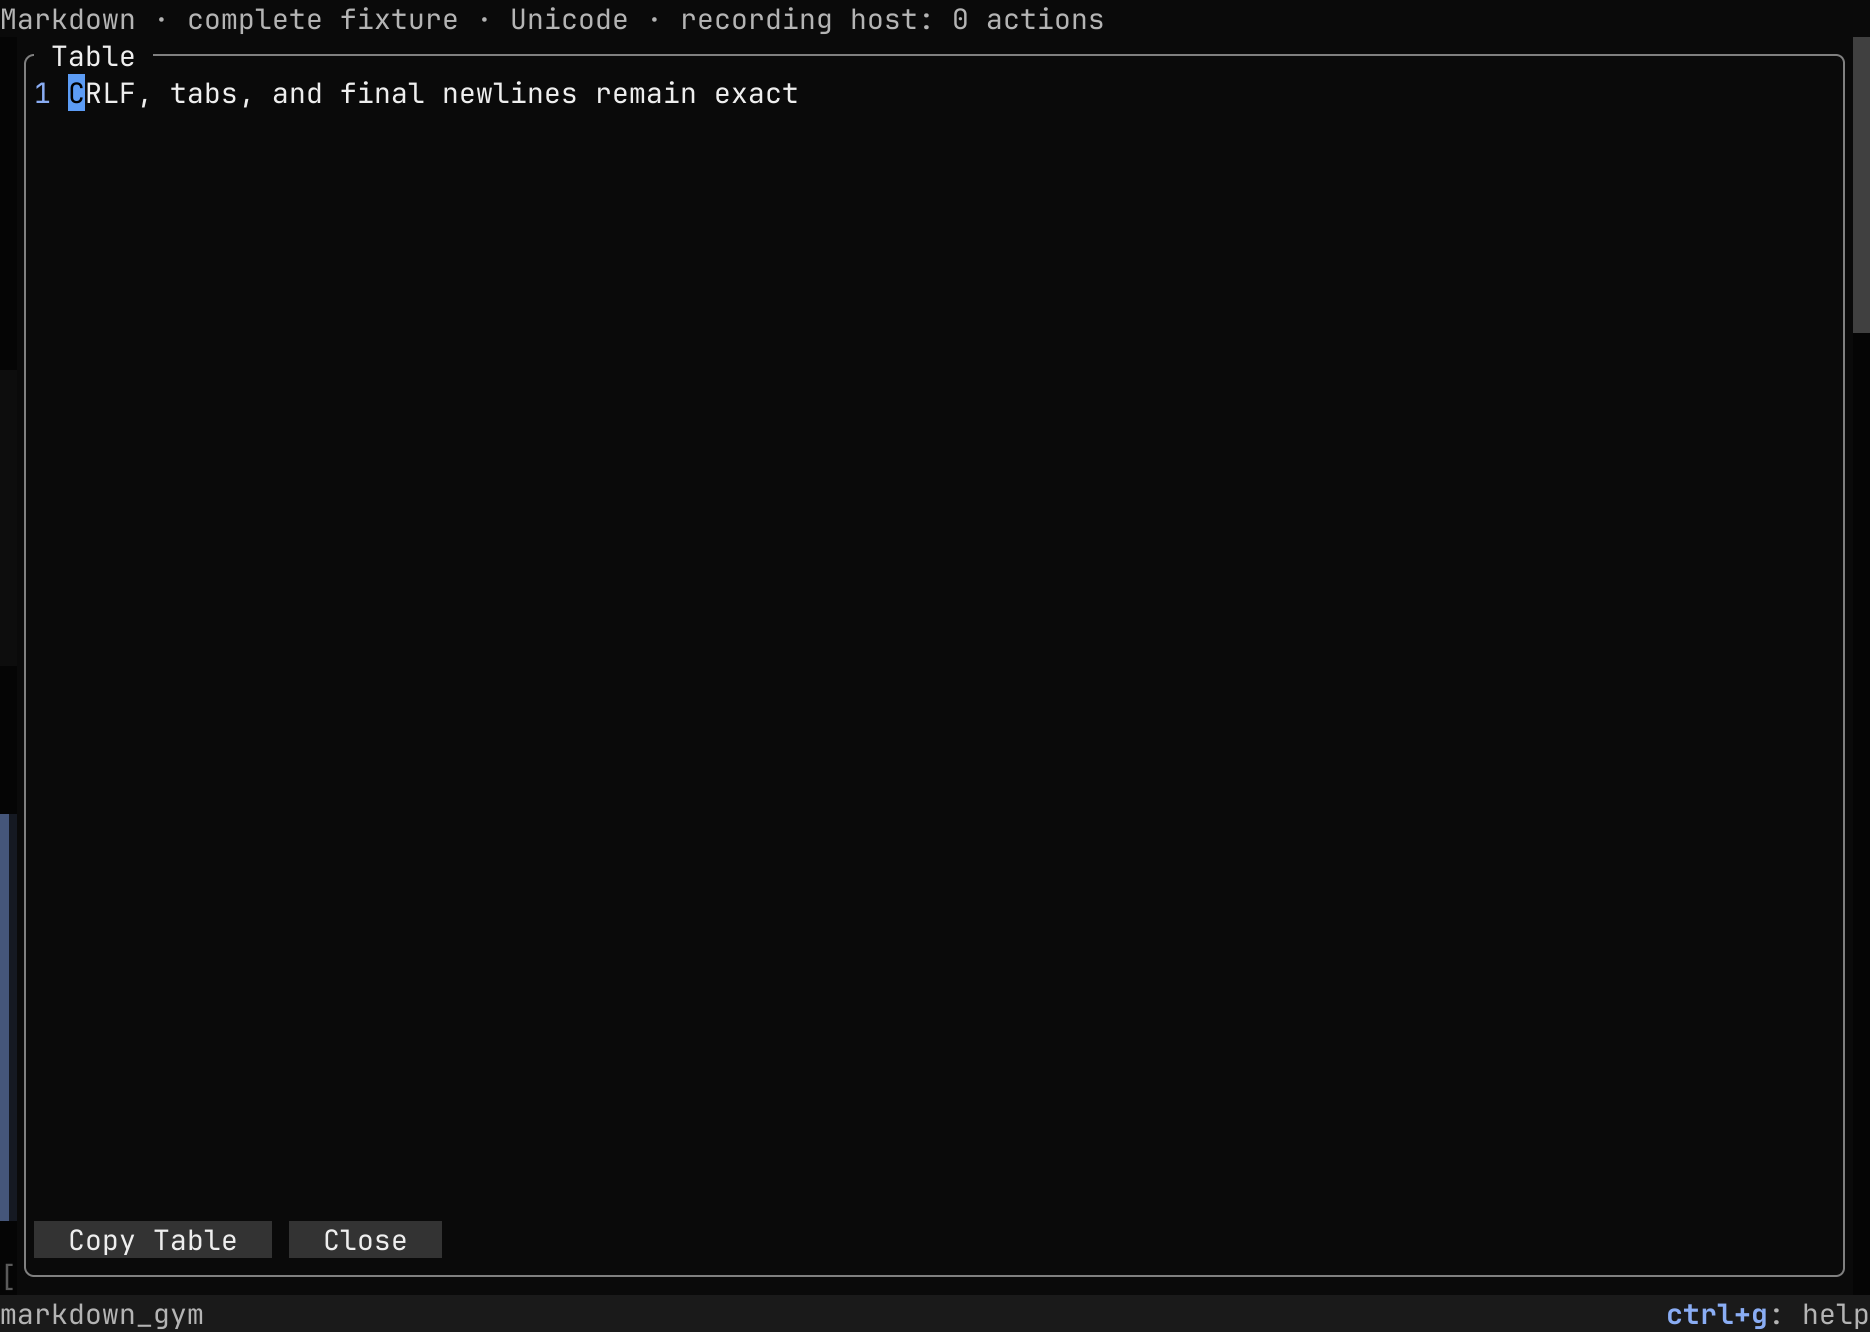
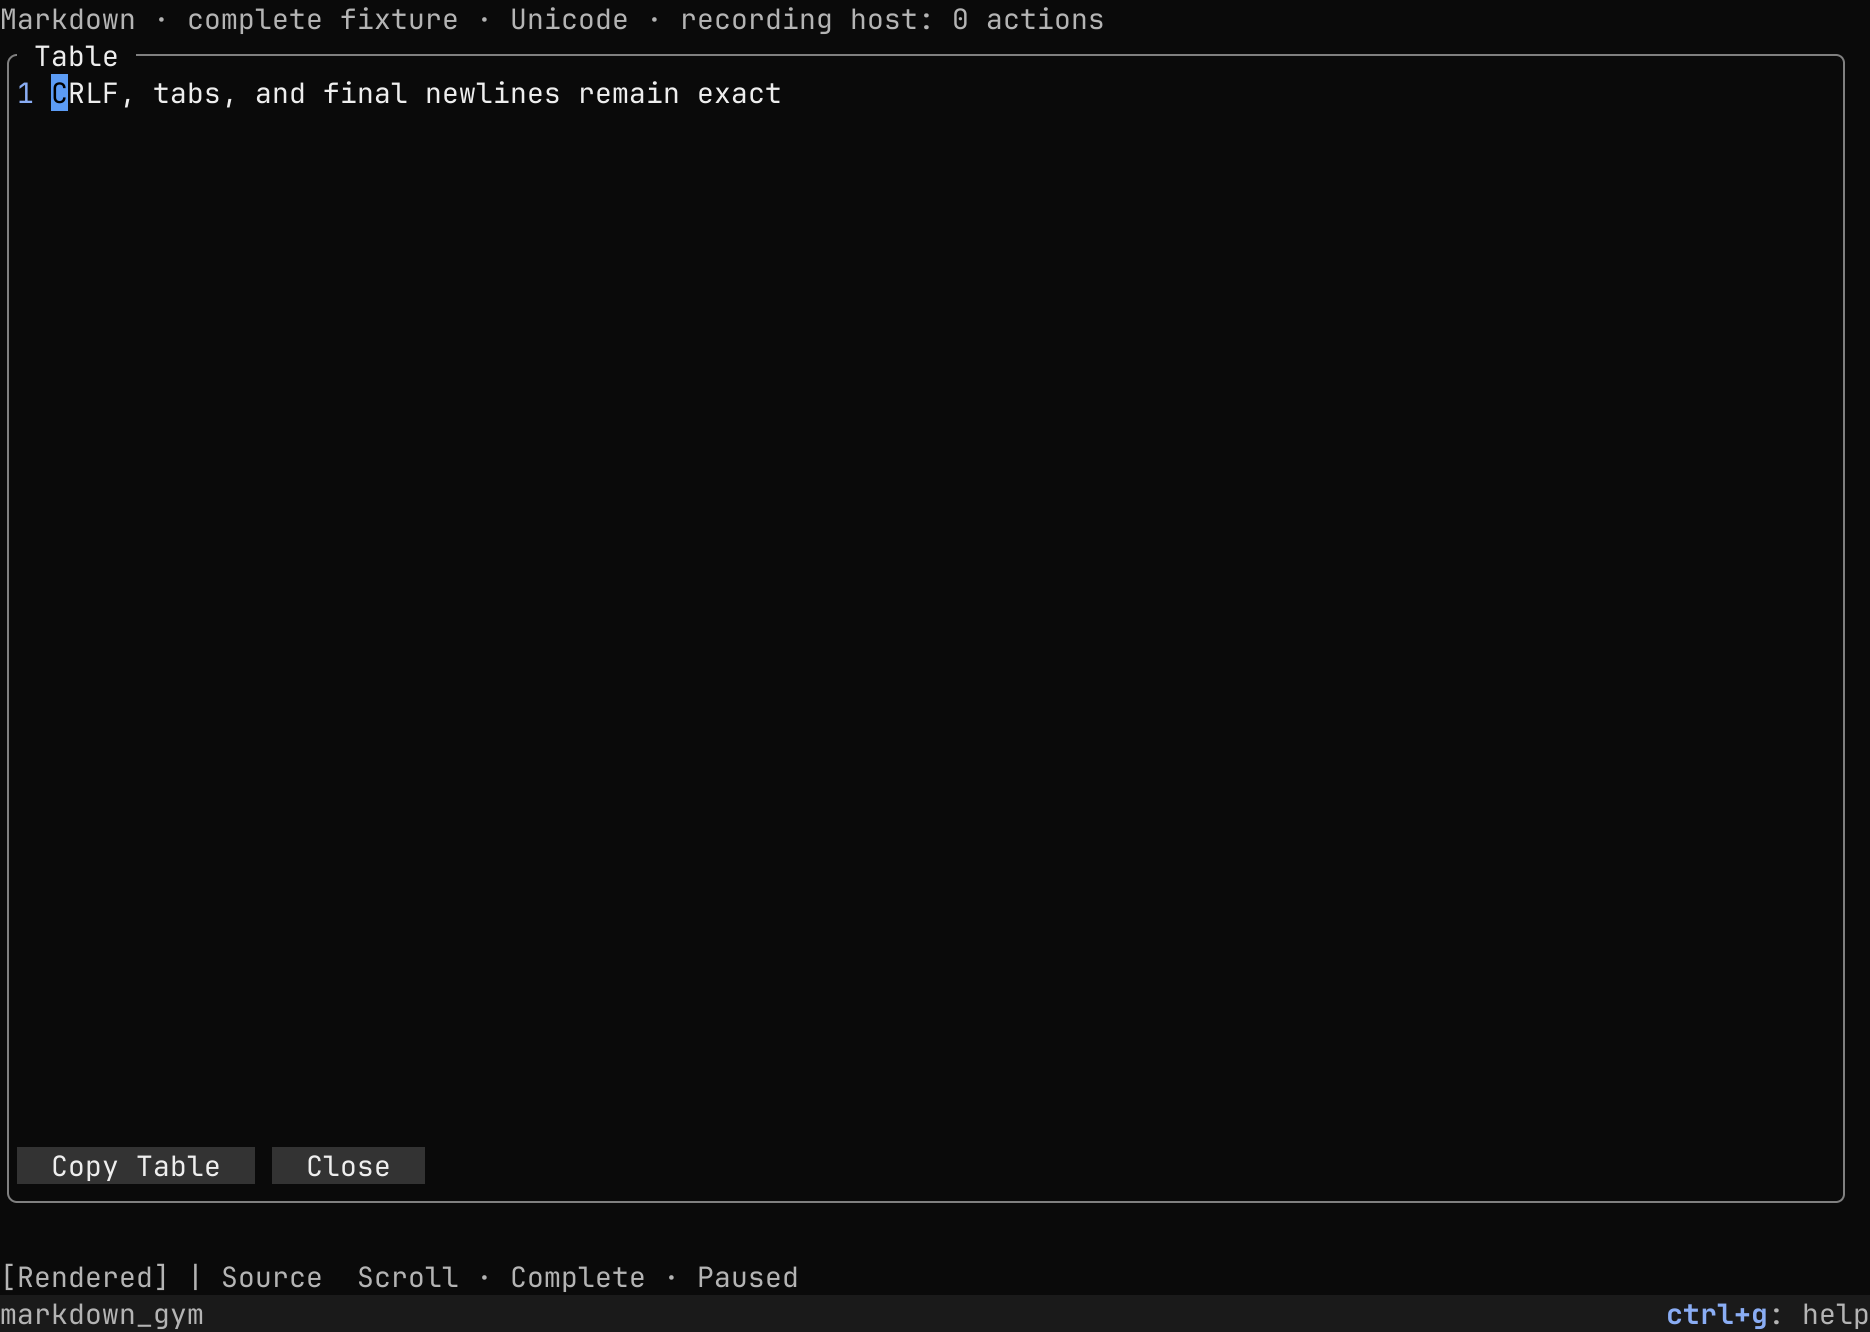
Open Markdown inspectors over the reader, not the whole host
An inspector mounted in the root's overlay layer and filled it, so
opening a table, a code block, a link, or the source took over the whole
application, however small the reader's pane. It now mounts in the
reader's body and opens as a modal inside the reader, so it covers the
reader alone and still takes focus and the keys. The body's layout
override names its stack again, which it had lost, and the document's
scrollbars hide while an inspector covers it.

diff --git a/docs/gallery/index.html b/docs/gallery/index.html
@@ -346,7 +346,7 @@
 <script>
 const GALLERY = {
   "title": "Canopy widgets",
-  "generated": 1792118023,
+  "generated": 1792274863,
   "font_size": 14.0,
   "scale": 2.0,
   "sizes": [

diff --git a/crates/canopy-markdown/src/inspector.rs b/crates/canopy-markdown/src/inspector.rs
@@ -17,7 +17,7 @@ use canopy::{
         InputSpec, ModalBindings, ModalOptions, ModalToken,
         key::{Key, KeyCode},
     },
-    layout::{CanvasContext, Direction, Edges, Layout, RevealAlign},
+    layout::{CanvasContext, Direction, Layout, RevealAlign},
     render::Render,
     runtime::{NodeWakeHandle, PollLifetime, WakeOutcome},
     tree::{FocusDirection, FocusScope},
@@ -458,12 +458,26 @@ impl MarkdownInspector {
         executor: MarkdownExecutor,
         content: InspectorContent,
     ) -> Result<InspectorHandle> {
-        Self::open_configured(ctx, executor, content, true, DEFAULT_COPY_BYTES, 256 * 1024)
+        let parent = ctx.node_id();
+        Self::open_configured(
+            ctx,
+            parent,
+            executor,
+            content,
+            true,
+            DEFAULT_COPY_BYTES,
+            256 * 1024,
+        )
     }
     /// Mount and open a modal with its host capabilities and preparation
     /// bounds.
+    ///
+    /// The inspector mounts in `parent`, a stack inside the calling owner,
+    /// and fills it, so it covers the reader it inspects and nothing else.
+    /// The modal still takes focus and the keys while it is open.
     pub fn open_configured(
         ctx: &mut dyn Context,
+        parent: NodeId,
         executor: MarkdownExecutor,
         content: InspectorContent,
         allow_copy: bool,
@@ -477,7 +491,7 @@ impl MarkdownInspector {
         inspector.allow_copy = allow_copy;
         inspector.copy_limit = copy_limit.min(EVENT_BYTES);
         inspector.source_options.syntax_limit = syntax_limit;
-        let node = ctx.add_modal(inspector)?;
+        let node = ctx.add_child(parent, inspector)?;
         let view: &dyn ViewContext = ctx;
         let (focus, wake) = view.with_widget(node, |widget: &Self| {
             Ok((
@@ -489,7 +503,8 @@ impl MarkdownInspector {
             owner: owner_id,
             modal: node.into(),
             initial_focus: focus.unwrap_or(node.into()),
-            dim_target: Some(owner_id),
+            // The inspector covers the reader, so nothing beside it dims.
+            dim_target: None,
             bindings: ModalBindings::Framework {
                 groups: &[Self::BINDINGS],
                 intents: &[],
@@ -1049,7 +1064,7 @@ impl Widget for Inspector {
         NodeName::convert("markdown_inspector")
     }
     fn layout(&self) -> Layout {
-        Layout::fill().padding(Edges::all(1))
+        Layout::fill()
     }
     fn accept_focus(&self, _ctx: &dyn ViewContext) -> bool {
         true
@@ -1597,8 +1612,9 @@ mod tests {
         inspector: Option<InspectorHandle>,
     }
     impl Widget for Owner {
+        // The inspector mounts in its owner, over the owner's own drawing.
         fn layout(&self) -> Layout {
-            Layout::fill()
+            Layout::fill().direction(Direction::Stack)
         }
         fn name(&self) -> NodeName {
             NodeName::convert("inspector_owner")
@@ -1663,38 +1679,30 @@ mod tests {
         }
     }
     #[test]
-    fn modal_background_covers_backdrop_between_controls_and_in_empty_reader_rows() -> Result<()> {
-        let (mut harness, _, handle, _) = fixture(outline())?;
+    fn the_inspector_covers_its_owner_between_controls_and_in_empty_reader_rows() -> Result<()> {
+        let (mut harness, owner, handle, _) = fixture(outline())?;
         harness.render()?;
-        let body = harness.canopy.with_root_context(|ctx| {
-            let reader = ctx.with_widget(handle.node, |inspector: &Inspector| {
-                Ok(inspector.reader_parent.unwrap())
-            })?;
-            Ok(ctx.view_of(ctx.parent_of(reader).unwrap()).unwrap().outer)
+        let (owner, inspector) = harness.canopy.with_root_context(|ctx| {
+            Ok((
+                ctx.view_of(owner).unwrap().outer,
+                ctx.view_of(handle.node.into()).unwrap().outer,
+            ))
         })?;
-        let lines = harness.tbuf().lines();
-        assert!(
-            lines[0].starts_with('~'),
-            "the outer margin still shows the backdrop"
+        assert_eq!(
+            inspector, owner,
+            "the inspector fills its owner, and only it"
         );
-        for row in lines
-            .iter()
-            .skip(usize::try_from(body.tl.y).unwrap())
-            .take(body.h as usize)
-        {
+        for row in harness.tbuf().lines() {
             assert!(
-                row.chars()
-                    .skip(usize::try_from(body.tl.x).unwrap())
-                    .take(body.w as usize)
-                    .all(|ch| ch != '~'),
-                "backdrop leaked through the modal: {row}"
+                !row.contains('~'),
+                "the owner's drawing leaked through the inspector: {row}"
             );
         }
         Ok(())
     }
 
     #[test]
-    fn owner_removal_reclaims_root_sibling_without_a_timer() -> Result<()> {
+    fn owner_removal_reclaims_the_inspector_without_a_timer() -> Result<()> {
         let (mut harness, owner, handle, _) = fixture(outline())?;
         harness
             .canopy
@@ -1731,8 +1739,15 @@ mod tests {
         })?;
         handle.wake()?;
         harness.canopy.turn(TurnInput::Prepare)?;
-        assert_eq!(harness.find_nodes("**/markdown_inspector/")?.len(), 1);
+        // The inspector travels with its detached owner, and lives on.
         assert_ne!(handle.wake()?, WakeOutcome::Expired);
+        harness.canopy.with_root_context(|ctx| {
+            let root = ctx.root_id();
+            ctx.attach(root, owner)?;
+            ctx.set_hidden(owner, false)
+        })?;
+        harness.canopy.turn(TurnInput::Prepare)?;
+        assert_eq!(harness.find_nodes("**/markdown_inspector/")?.len(), 1);
         Ok(())
     }
     #[test]
@@ -1839,6 +1854,7 @@ mod tests {
         let handle = harness.canopy.with_context(owner, |ctx| {
             Inspector::open_configured(
                 ctx,
+                owner,
                 executor,
                 InspectorContent::Code {
                     info: String::new(),

diff --git a/crates/canopy-markdown/src/widget/mod.rs b/crates/canopy-markdown/src/widget/mod.rs
@@ -83,7 +83,7 @@ struct Nodes {
 }
 /// Pinned inspector provenance, independent of subsequent publications.
 struct OpenInspector {
-    /// Modal overlay handle used for events, readiness, and dismissal.
+    /// Modal handle used for events, readiness, and dismissal.
     handle: InspectorHandle,
     /// Pinned inspected object, or None for an outline or full source.
     object: Option<u64>,
@@ -1123,8 +1123,14 @@ impl Markdown {
             return Err(invalid("Close the current inspector first"));
         }
         self.shared.borrow_mut().follow = Follow::Paused;
+        let body = self
+            .nodes
+            .as_ref()
+            .map(|nodes| nodes.body)
+            .ok_or_else(|| invalid("The reader is not mounted"))?;
         let handle = Inspector::open_configured(
             ctx,
+            body,
             self.options.executor.clone(),
             content,
             self.options.clipboard,
@@ -1844,6 +1850,10 @@ impl Markdown {
     }
     /// Compute scrollbar tracks from the current active child allocation.
     fn tracks(&self, ctx: &dyn ViewContext) -> ScrollbarTracks {
+        // An open inspector covers the document, whose position it hides.
+        if self.inspector.is_some() {
+            return (vec![], vec![]);
+        }
         let Some(node) = self.navigation_node() else {
             return (vec![], vec![]);
         };
@@ -1891,9 +1901,12 @@ impl Widget for Markdown {
         )?;
         ctx.set_hidden(search.into(), true)?;
         let body = ctx.add_child(owner, Container::stack().with_name("markdown_body"))?;
+        // The override replaces the container's own layout, so it names the
+        // stack again: an open inspector lies over the reading surface.
         ctx.set_layout_override(
             body.into(),
             Layout::fill()
+                .direction(Direction::Stack)
                 .padding(Edges {
                     left: 0,
                     right: 1,

diff --git a/crates/canopy-markdown/src/widget/tests.rs b/crates/canopy-markdown/src/widget/tests.rs
@@ -1565,3 +1565,42 @@ fn vi_letters_jump_to_document_edges_in_both_views() {
             .unwrap();
     }
 }
+
+#[test]
+fn an_inspector_covers_the_reader_body_and_nothing_beyond_it() {
+    let (mut harness, manual) =
+        fixture("# Title\n\nbody\n", ViewType::Rendered, false, false, false);
+    settle(&mut harness, &manual);
+    harness
+        .with_root_widget_context(|reader: &mut Markdown, ctx| reader.inspect_source(ctx))
+        .unwrap();
+    manual.run_until_idle();
+    harness.canopy.turn(TurnInput::Prepare).unwrap();
+    harness.render().unwrap();
+    let (body, inspector) = harness
+        .with_root_widget_context(|reader: &mut Markdown, ctx| {
+            let body = reader.nodes.as_ref().unwrap().body;
+            let inspector: NodeId = reader.inspector.as_ref().unwrap().handle.node.into();
+            assert_eq!(
+                ctx.parent_of(inspector),
+                Some(body),
+                "the inspector mounts in the reader's body"
+            );
+            Ok((
+                ctx.view_of(body).unwrap().content,
+                ctx.view_of(inspector).unwrap().outer,
+            ))
+        })
+        .unwrap();
+    assert_eq!(inspector, body, "the inspector fills the body");
+    harness
+        .with_root_widget_context(|reader: &mut Markdown, ctx| {
+            assert_eq!(
+                reader.tracks(ctx),
+                (vec![], vec![]),
+                "the document's scrollbars hide under the inspector"
+            );
+            Ok(())
+        })
+        .unwrap();
+}

diff --git a/docs/markdown.md b/docs/markdown.md
@@ -46,6 +46,10 @@ broken right margin, and labels the table with the columns it shows. Completed
 tables open a keyed TableView; a receiving trailing table remains literal source
 until it closes.
 
+An inspector opens over the reader itself, so it fills the reader's area and
+leaves the rest of the host visible. It takes focus and the keys until it
+closes, and the document's scrollbars hide while it covers the document.
+
 Source preserves Markdown syntax, tabs, CRLF, and final-newline bytes. Its display
 substitutes unsafe terminal controls, but exact copy uses accepted source ranges.
 `MarkdownSource` is also usable on its own: prepare a `PreparedSource` off the UI
